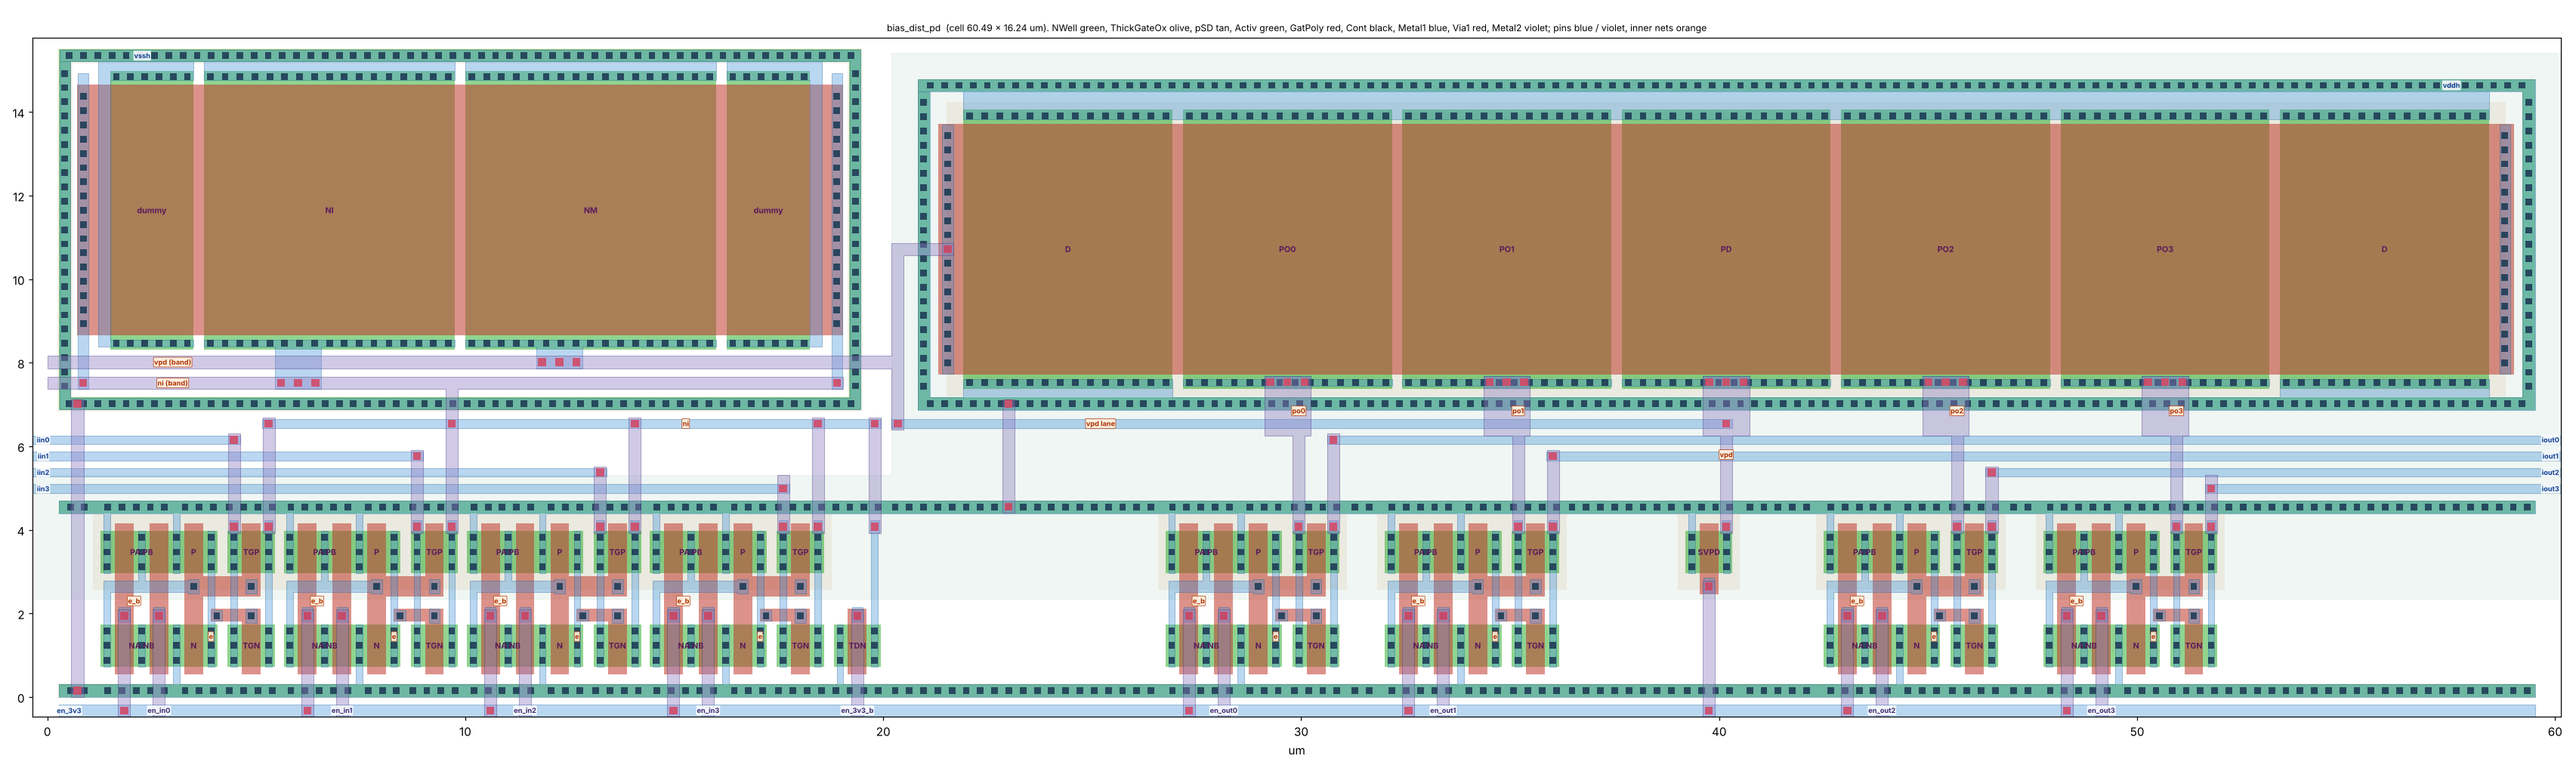
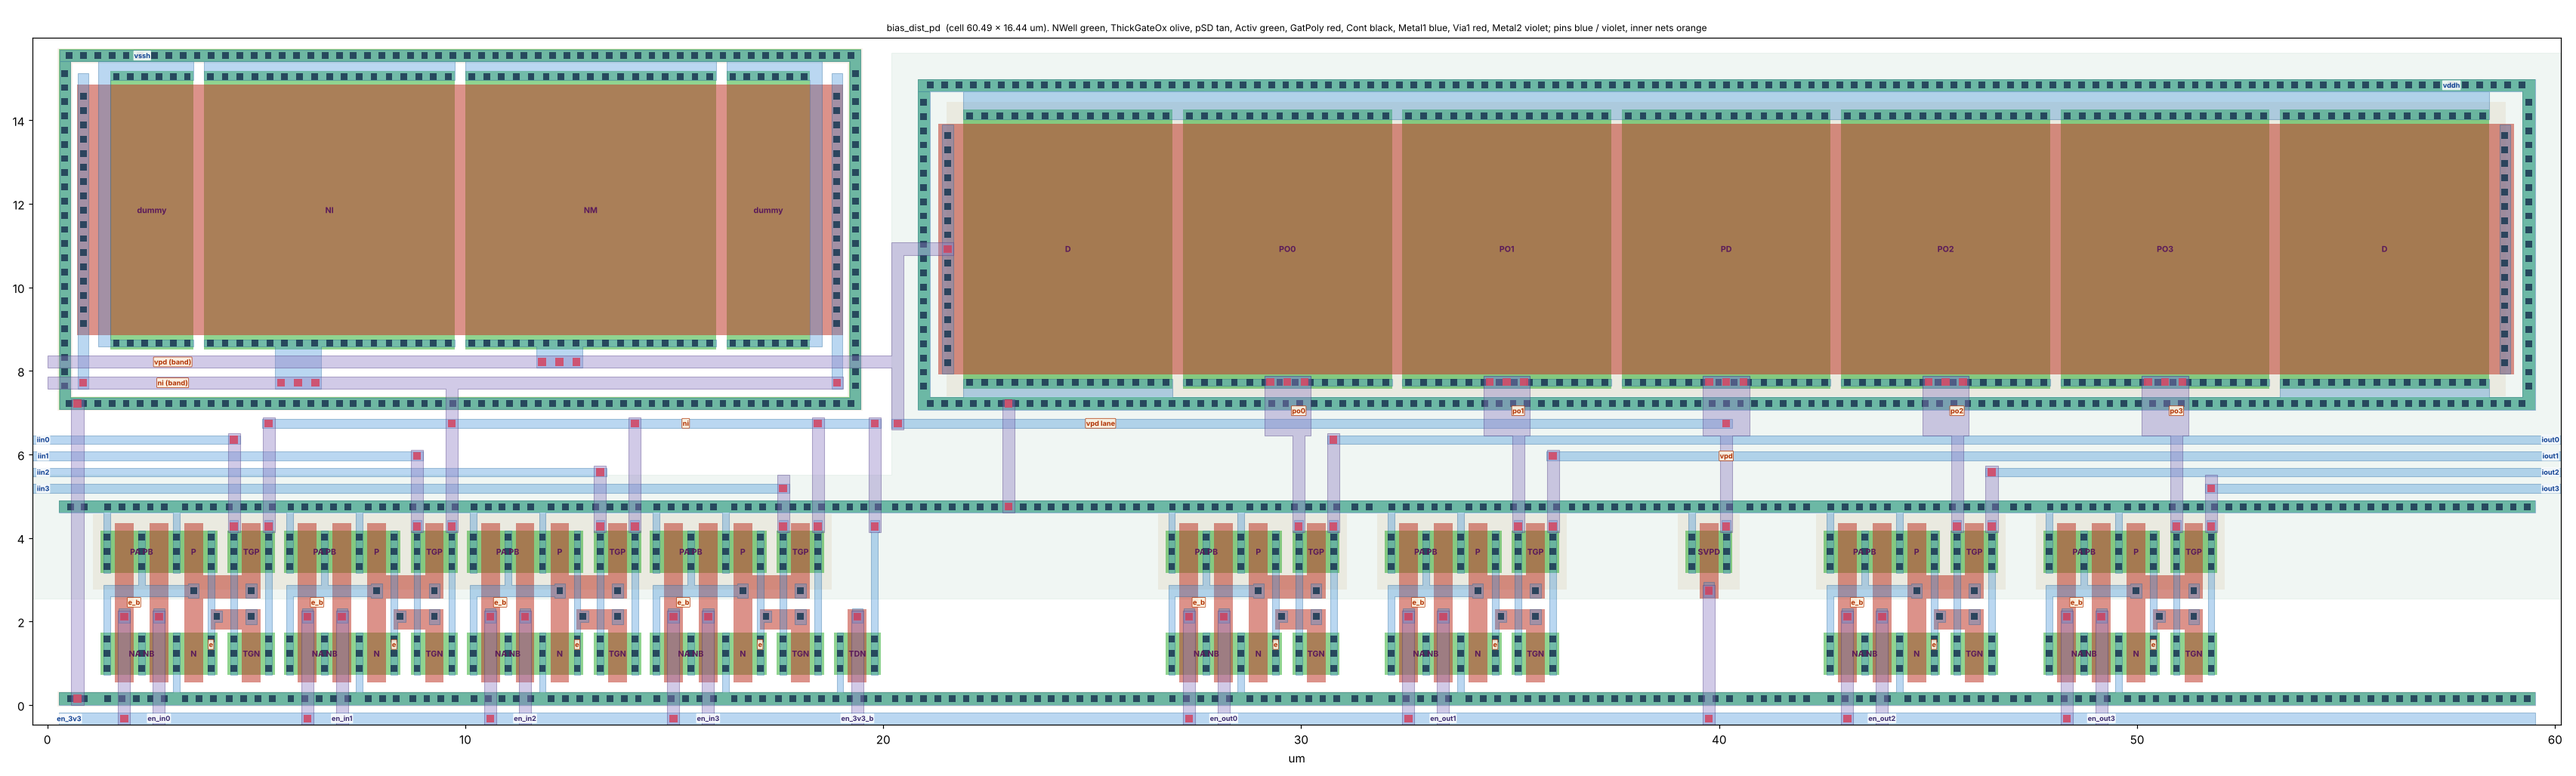
bias_dist_pd round 2: TG gate pads away from the channels, narrow-poly check 0 on every cell
Christoph: "we're not short of area, so move the pads away from the channels so the check
passes". Agent D: switch row 0.20 um taller (60.49 x 16.44 um); pads 0.32 ... 0.37 um beyond the
endcap zone. Lead: N check 0 everywhere, 73 / 73 + 4 dummies, LVS rerun match, DRC clean,
make klayout-lvs OK. README, slot picture. RUNLOG rows 92-93.

Claude-Session: https://claude.ai/code/session_01XU3KH9LkJUXwr5yuksqCZG

diff --git a/docs/replica_bias/RUNLOG.md b/docs/replica_bias/RUNLOG.md
@@ -141,7 +141,8 @@ in Phase 2.
 | 89 | 2026-11-08 00:45 | `macros/bias_dist_pd` | Christoph: "give the S2D an inner slot next to PD". Output assignment of bias_dist_pd set to iout0 = D2S, iout1 = S2D, iout2 = pad_ref_rb, iout3 = spare (netlist header, README, macros/README.md) | 0 | — | PO1 / PO2 are D's inner pair, mirror images about PD: the S2D and the replica that copies its operating point share it. An assignment only: layout, netlist devices and sheet unchanged |
 | 90 | 00:50 | `macros/bias_dist_pd` | Christoph: "both pads on the inner pair please". Output assignment iout0 = pad_ref_rb, iout1 = S2D, iout2 = D2S, iout3 = spare (netlist header, README, macros/README.md) | 0 | — | both pads on PO1 / PO2, the inner pair about PD; pad_ref_rb and the spare outside. Assignment only, no device / sheet / layout change |
 | 91 | 00:55–01:15 | scratchpad `layout_rb/lead/bdp_explain` | Christoph: location of the layout; pictures of "the switch row", "tie strips", "split switch gates"; the assumptions behind the "narrow-poly flag". Read `sym_check.py` (its N check) and D's `note.md`; klayout.db measurements on `macros/bias_dist_pd/layout/klayout/bias_dist_pd.klay.gds` (wide Activ, NWell, bdp_tg_hv's poly / Activ / contacts, the check's clipped pieces and width-check edges); `bdp_explain.py` (three annotated views) | 0 | notes branch `layout/lead/bdp_explain/` | tie strips: Activ y 0.00–0.30 (p+, vssh) and 4.40–4.70 (n+, vddh), x 0.27–59.52. TG: TGN Activ y 0.73–1.73, TGP 2.97–3.97 (gap 1.24 µm), gate poly 0.45 µm wide; the check's clipped pieces 0.14 µm (TGN) and 0.27 µm (TGP) tall, both < 0.30: flagged, but the contacted poly is 0.45 µm wide (no neck). D's "0.14 µm of each pad" holds for TGN only |
-| 92 | 01:20 | — | Christoph: "we're not short of area, so move the pads away from the channels so the check passes" (and: where does the rule come from, who drew the layout). Agent D resumed for round 2: TG gate-contact pads away from the channels until sym_check's N check reports 0 on every cell; all checks re-run; round 1 kept as `out/v1/`. Provenance traced on the notes branch: `pad_buffer_layout/pad_cell_2026-10-31/report.md` (Christoph rejected session C2's first primitives on 2026-10-31 for, among others, "necked gate-contact poly"), `HANDOFF.md` ("The narrow-poly test is a heuristic; Christoph's review is the real check"), `sym_check.py` written by C2 | — | — | running |
+| 92 | 01:20 | — | Christoph: "we're not short of area, so move the pads away from the channels so the check passes" (and: where does the rule come from, who drew the layout). Agent D resumed for round 2: TG gate-contact pads away from the channels until sym_check's N check reports 0 on every cell; all checks re-run; round 1 kept as `out/v1/`. Provenance traced on the notes branch: `pad_buffer_layout/pad_cell_2026-10-31/report.md` (Christoph rejected session C2's first primitives on 2026-10-31 for, among others, "necked gate-contact poly"), `HANDOFF.md` ("The narrow-poly test is a heuristic; Christoph's review is the real check"), `sym_check.py` written by C2 | 0 | — | done, row 93 |
+| 93 | 01:30–01:50 | `macros/bias_dist_pd` | D's round 2: switch row 0.20 µm taller. Lead: `sym_check.py` N check on every cell and the whole cell; `bdp_vs_circuit.py` (source dummies now in the netlist, CDL dummies `MMDN` / `MMDP`); `run_lvs.py` rerun; layout into the macro (prefix `bdp_`, XOR 0 against D's gds); `run_drc.py --no_density`; `make klayout-lvs-netlist` + `make klayout-lvs`; README, the annotated views and the slot picture redrawn | 0 | `macros/bias_dist_pd/layout/klayout/`, notes branch `layout/agents_c4/D/` (round 1 in `out/v1/`), `lead/bdp_explain/` | 60.49 × 16.44 µm = 994.5 µm² (+12 µm²); N check 0 hits on tg_hv, slice, TDN, SVPD, nand2_hv, inv_hv, the mirrors and the whole cell; pads reach 0.32 … 0.37 µm beyond the endcap zone; Activ-to-Activ in the TG 1.44 µm; 73 / 73 + 4 dummies; LVS match; DRC clean; make klayout-lvs OK; mirrors byte-identical to round 1 |
 
 ## Phase 3: layout
 

diff --git a/macros/bias_dist_pd/README.md b/macros/bias_dist_pd/README.md
@@ -69,7 +69,7 @@ schematic/bias_dist_pd.png / .svg        render of the sheet
 schematic/xschem/xschemrc                adds hv_logic
 netlist/source/bias_dist_pd.spice        source netlist (with hv_logic.spice)
 testbenches/spice/tb_truth.spice / .out  truth table, DC (ngspice -b in this folder, repo environment)
-layout/klayout/bias_dist_pd.klay.gds     the layout (agent D, 2026-11-07): 60.49 × 16.24 µm, M1 / M2; .cdl its flat LVS
+layout/klayout/bias_dist_pd.klay.gds     the layout (agent D, round 2, 2026-11-08): 60.49 × 16.44 µm, M1 / M2; .cdl its flat LVS
                                          reference; .png the cell
 netlist/schematic, netlist/layout        make klayout-lvs-netlist / klayout-lvs (LVS OK)
 ```
@@ -87,7 +87,7 @@ would cross them (88 crossings against 45).
 
 ## Layout (agent D, 2026-11-07)
 
-`layout/klayout/bias_dist_pd.klay.gds`, 60.49 × 16.24 µm = 982 µm², Metal1 / Metal2 only (as the pads).
+`layout/klayout/bias_dist_pd.klay.gds`, 60.49 × 16.44 µm = 994.5 µm² (round 2), Metal1 / Metal2 only (as the pads).
 - **Structure:** option B below, one slice per leg (nand2_hv | inv_hv | tg_hv), all eight slices plus TDN and SVPD in one
   row under the two matched rows: NMOS `D NI NM D` (rb_mirror's code, XOR 0 against it) and PMOS
   `D PO0 PO1 PD PO2 PO3 D` (rb_tails' code, the diode PD in the middle). Inputs iin0..3 on the left edge, outputs
@@ -97,8 +97,11 @@ would cross them (88 crossings against 45).
   not run.
 - **Inner pair** (decided 2026-11-08): PO1 = S2D and PO2 = D2S beside PD, PO0 = pad_ref_rb and PO3 = spare outside;
   an assignment of the outputs, no layout change.
-- **Open (agent D):** the switch row has tie strips, not a closed ring; the split TG gates trip sym_check's narrow-poly
-  flag (contacted poly ≥ 0.39 µm; a 0.04 µm taller row would clear it).
+- **Round 2** (Christoph, 2026-11-08: "we're not short of area, so move the pads away from the channels so the check
+  passes"): the switch row 0.20 µm taller; every contacted gate pad now reaches 0.32 … 0.37 µm beyond the 0.25 µm
+  endcap zone, so sym_check's narrow-poly check finds 0 hits on every cell and on the whole cell (before: tg_hv's pads
+  0.14 / 0.27 µm, a false alarm on 0.45 µm wide poly). Mirrors byte-identical to round 1.
+- **Open (agent D):** the switch row has tie strips, not a closed ring.
 - Proposed place in slot7: above the stacked cores, left of pad_ref_rb (`../pad_ref_rb/layout/klayout/pad_ref_rb_in_slot7.png`).
 
 ## Layout note: a later split into analog and digital cells (not done)

diff --git a/macros/README.md b/macros/README.md
@@ -36,7 +36,7 @@ slot  (slot7_wrapper-compatible; fallback wiring of both pads)
 | `bias_sel_noab_pd`, `bias_tree_noab_pd` | the same without the class-AB branches, for the s2d pad (since 2026-10-28 the pad uses `bias_gen_pd` + `bias_tree_noab_pd`) | sheets, 2026-10-27; netlist-checked against `bias_sel_pd` / `bias_tree_pd` |
 | `oa_core_pd`, `bg_core_pd` | the Oguey–Aebischer and the Banba bandgap core, sourced reference current out | sheets (from `bias_sel_pd`) |
 | `bias_gen_pd` | `bias_sel_pd` without the tree: selectable reference current, in both pads (`xg`, next to the tree `xt`) since 2026-10-28, or in the slot's main area | sheet, 2026-10-27; on its own not simulated |
-| `bias_dist_pd` | switchable distribution mirror, 4 inputs (OA core, BG core, harness ibias0 / ibias1), 4 outputs (iout0 pad_ref_rb, iout1 S2D, iout2 D2S, iout3 spare; both pads on the inner pair beside the PMOS diode): the shared bias option | 2026-11-07: sheet (4 inputs), truth table simulated; layout by agent D (60.5 × 16.2 µm, M1 / M2), DRC clean, `make klayout-lvs` OK; ports vddh / vssh |
+| `bias_dist_pd` | switchable distribution mirror, 4 inputs (OA core, BG core, harness ibias0 / ibias1), 4 outputs (iout0 pad_ref_rb, iout1 S2D, iout2 D2S, iout3 spare; both pads on the inner pair beside the PMOS diode): the shared bias option | 2026-11-07: sheet (4 inputs), truth table simulated; layout by agent D (60.5 × 16.4 µm, M1 / M2), DRC clean, `make klayout-lvs` OK; ports vddh / vssh |
 | `pad_ref_rb` | replica bias of the custom pads' reference voltages in one cell: the shared bias tree `bias_tree_rb` (own sheet in this macro) feeding `vcm_rb` and `vref_s2d_rb`; one 5 µA reference (a `bias_dist_pd` leg), one enable | 2026-11-07: sheets + source, `make check-sheet`; CACE 8 / 8 groups pass (schematic); layout: agent F's v2 (`layout/klayout/pad_ref_rb.klay.gds`, 73.8 × 76.3 µm, M1 / M2), DRC clean, `make klayout-lvs` OK; ports vddh / vssh |
 | `vcm_rb` | replica bias for the pads' internal common mode (S2D `vcm` = D2S `vref`), centred in the band where both pads stay linear; also holds the block / closed-loop / gap-run testbenches of the replica bias task (`testbenches/`, `docs/replica_bias/`) | 2026-11-06 / 07: sheet + source, `make check-sheet`; characterized through `pad_ref_rb` |
 | `vref_s2d_rb` | replica bias for the S2D pad reference `vref`, about 0.5 V, rising with temperature as the S2D input edge does | 2026-11-06 / 07: sheet + source, `make check-sheet`; characterized through `pad_ref_rb` |
